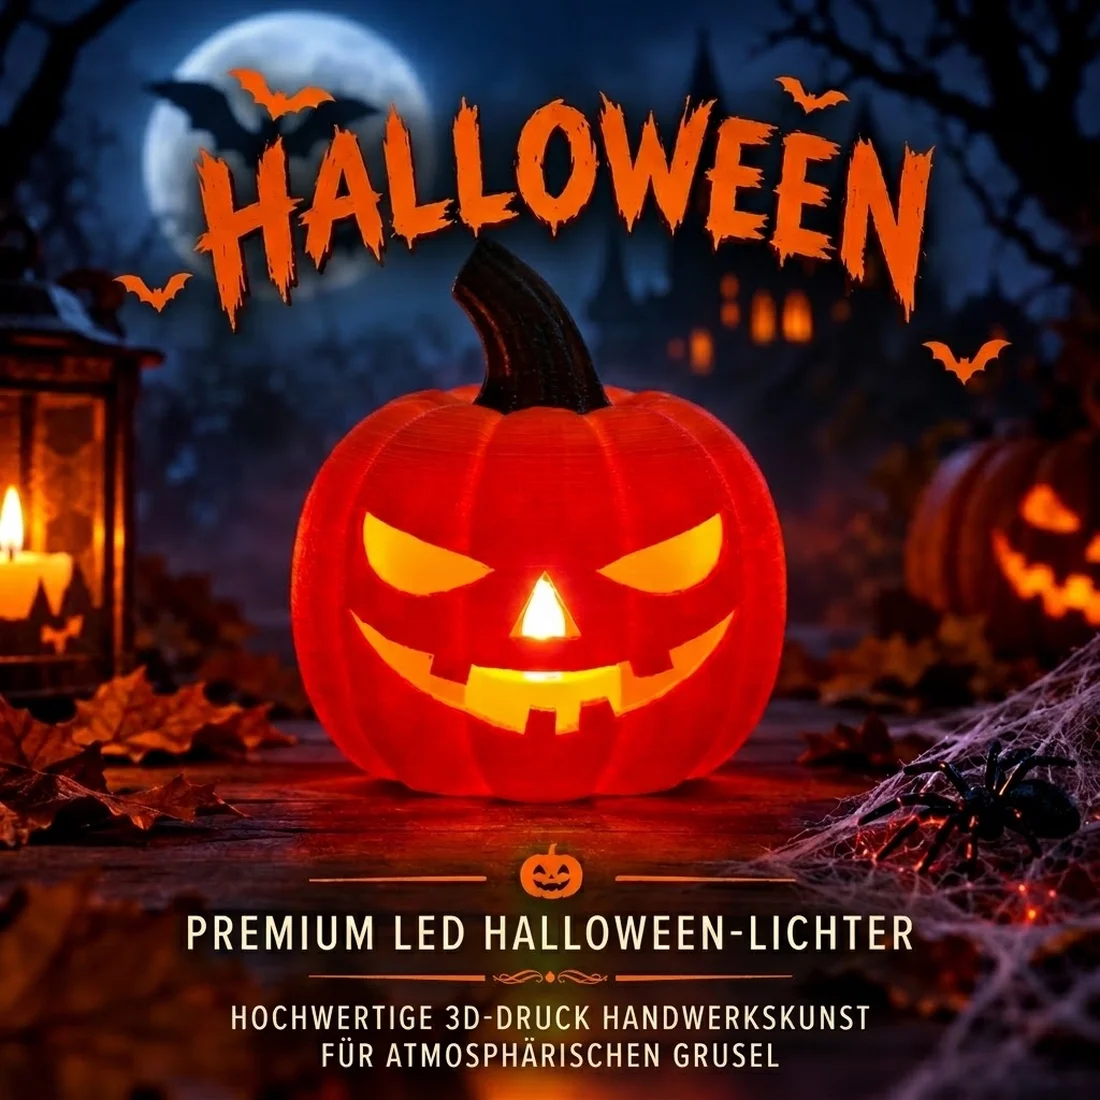
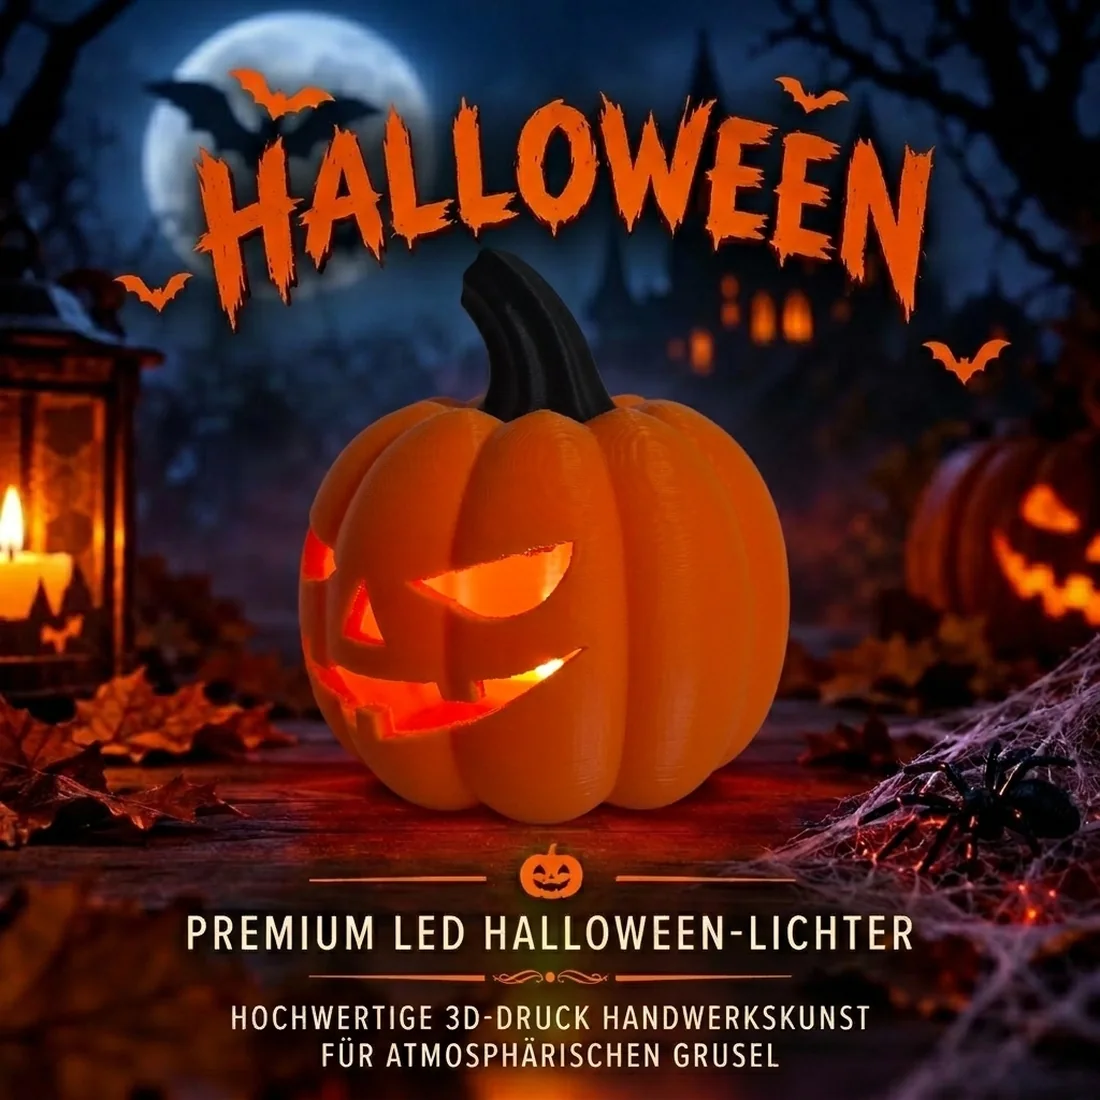
Kuerbis-Laterne: Cover Kuerbis 2, Galerie Mondlicht + Kuerbis 2, keine Live-Umfaerbung, alte Fotos entfernt
Claude-Session: https://claude.ai/code/session_01J3XNNkixmMVkzjtWsont1N

Changed region(s): [[0.2473, 0.2164, 0.7418, 0.7727], [0.8345, 0.68, 0.8655, 0.7109]]

diff --git a/lib/shop/fotos.ts b/lib/shop/fotos.ts
@@ -41,10 +41,10 @@ const ALT: Record<string, string[]> = {
   "geister-set-klein": [
     "Drei kleine Geister in Weiß vor Halloween-Kulisse",
   ],
-  // Foto 1 = Tageslicht (orange Körper, schwarzer Stiel): Körper- und Stielfarbe deiner Wahl werden live eingefärbt (Maske 1.m.webp); Foto 2 = leuchtend im Dunkeln, immer Originalfarben
+  // Cover = Kürbis 2; Galerie: 1.webp (leuchtend im Mondlicht), 2.webp (Kürbis 2), kein Cover-Duplikat davor (COVER_IST_FOTO1); keine Live-Umfärbung, die Farben stehen als Auswahl bereit
   "kuerbis-laterne": [
-    "Kürbis mit Gesicht bei Tageslicht, orange mit schwarzem Stiel",
-    "Kürbis mit Gesicht leuchtet im Dunkeln mit LED-Teelicht (Foto in Originalfarben)",
+    "Leuchtender 3D-Druck-Kürbis im Mondlicht mit LED-Teelicht",
+    "Kürbis mit Gesicht, orange mit schwarzem Stiel, Premium LED Halloween-Licht",
   ],
   // Titelbild (Cover) zuerst, dann 4.webp (hängend im Halloween-Look) und 5.webp (sitzend im Halloween-Zauber), beide Hochformat mit unscharfem Rand auf Quadrat gesetzt
   "skelett-beweglich": [
@@ -105,7 +105,7 @@ export const COVER: string[] = [
 ];
 /** Zweites Cover im Design-Stil (Datei <slug>-design.webp) für die Ansicht außerhalb der Halloween-Kollektion ("Alle", "Sonstiges"). */
 /** Artikel, deren Titelbild schon Foto 1 der Galerie ist (dann kein zusätzliches Cover als erstes Galeriebild). */
-export const COVER_IST_FOTO1: string[] = ["wochentags-untersetzer-einzeln", "wochentags-untersetzer-set", "geister-set-klein", "kuerbis-klein-set"];
+export const COVER_IST_FOTO1: string[] = ["wochentags-untersetzer-einzeln", "wochentags-untersetzer-set", "geister-set-klein", "kuerbis-klein-set", "kuerbis-laterne"];
 export const COVER_DESIGN: string[] = ["kuerbis-teelichthalter"];
 export const coverFuer = (slug: string, halloweenSicht = false): string | undefined =>
   !COVER.includes(slug) ? undefined : !halloweenSicht && COVER_DESIGN.includes(slug) ? `/shop/cover/${slug}-design.webp` : `/shop/cover/${slug}.webp`;
@@ -123,7 +123,6 @@ export const UMFAERBEN: Record<string, UmfaerbModus> = {
   "namensschild": "schild",
   "spruch-untersetzer": "untersetzer",
   "geister-set": "farbe",
-  "kuerbis-laterne": "teile",
 };
 
 /** Fotos ohne Maske, die nie umgefärbt werden (Kork-Rückseite): Slug -> Fotonummern (0-basiert). */
@@ -132,7 +131,6 @@ export const MOTIV_BESCHRIFTUNG: Record<string, string[]> = { "halloween-unterse
 export const OHNE_UMFAERBEN: Record<string, number[]> = {
   "namensschild": [0, 1], // Anzeige-Index: 0 und 1 (Beispiel, Rückseite) bleiben Originale, 2 ist die Live-Vorschau
   "stiftebecher-tasse": [1, 2], // Anzeige-Index: 0 = Live-Vorschau (Frontsicht), 1/2 = Seitenansicht und Draufsicht bleiben Originale
-  "kuerbis-laterne": [1], // Dunkel-Foto mit LED-Teelicht: Originalfarben
   "halloween-untersetzer-set": [5],
   "halloween-untersetzer-einzeln": [3],
 };
